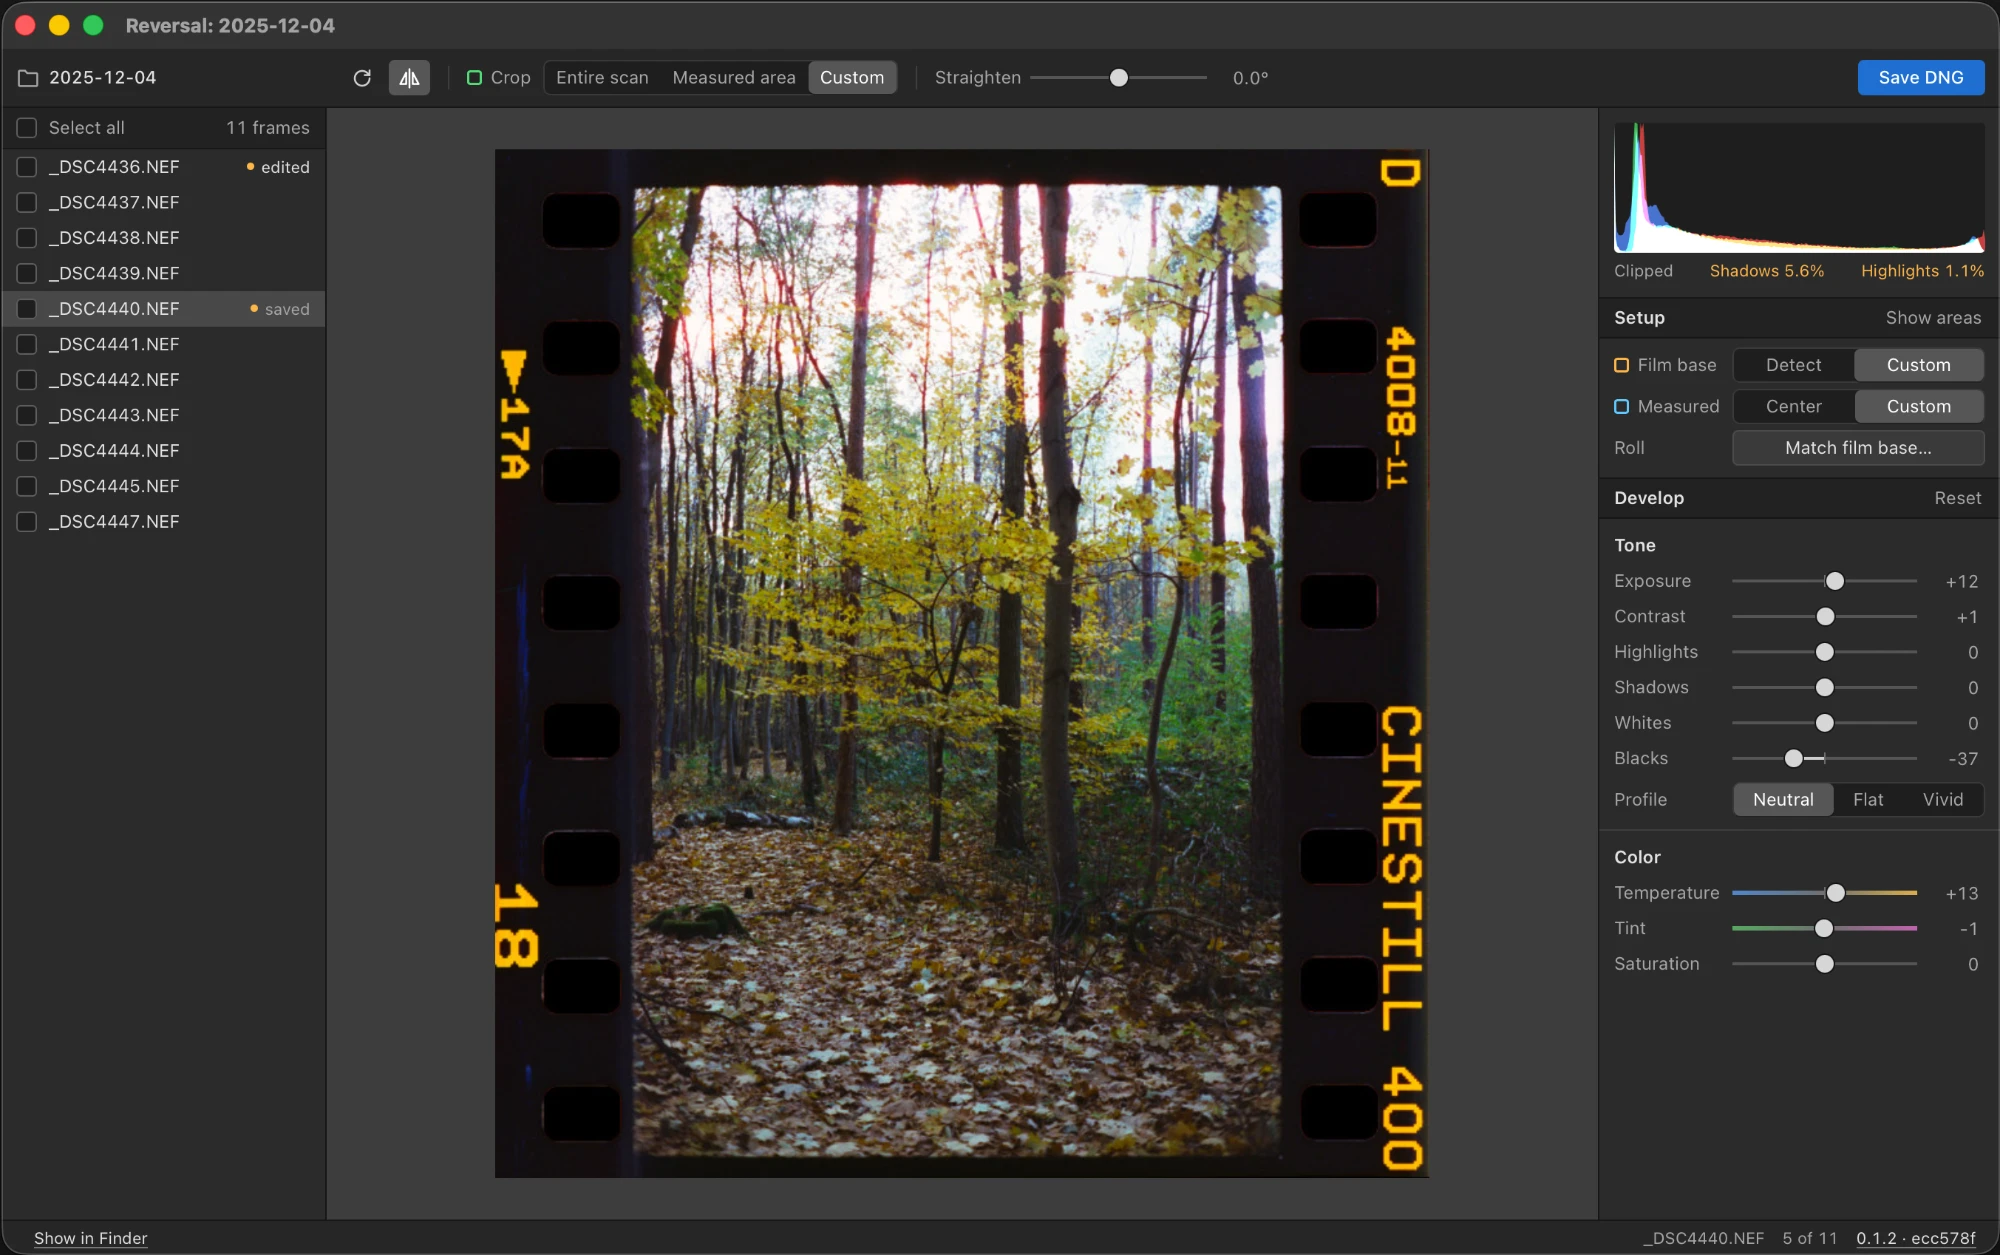
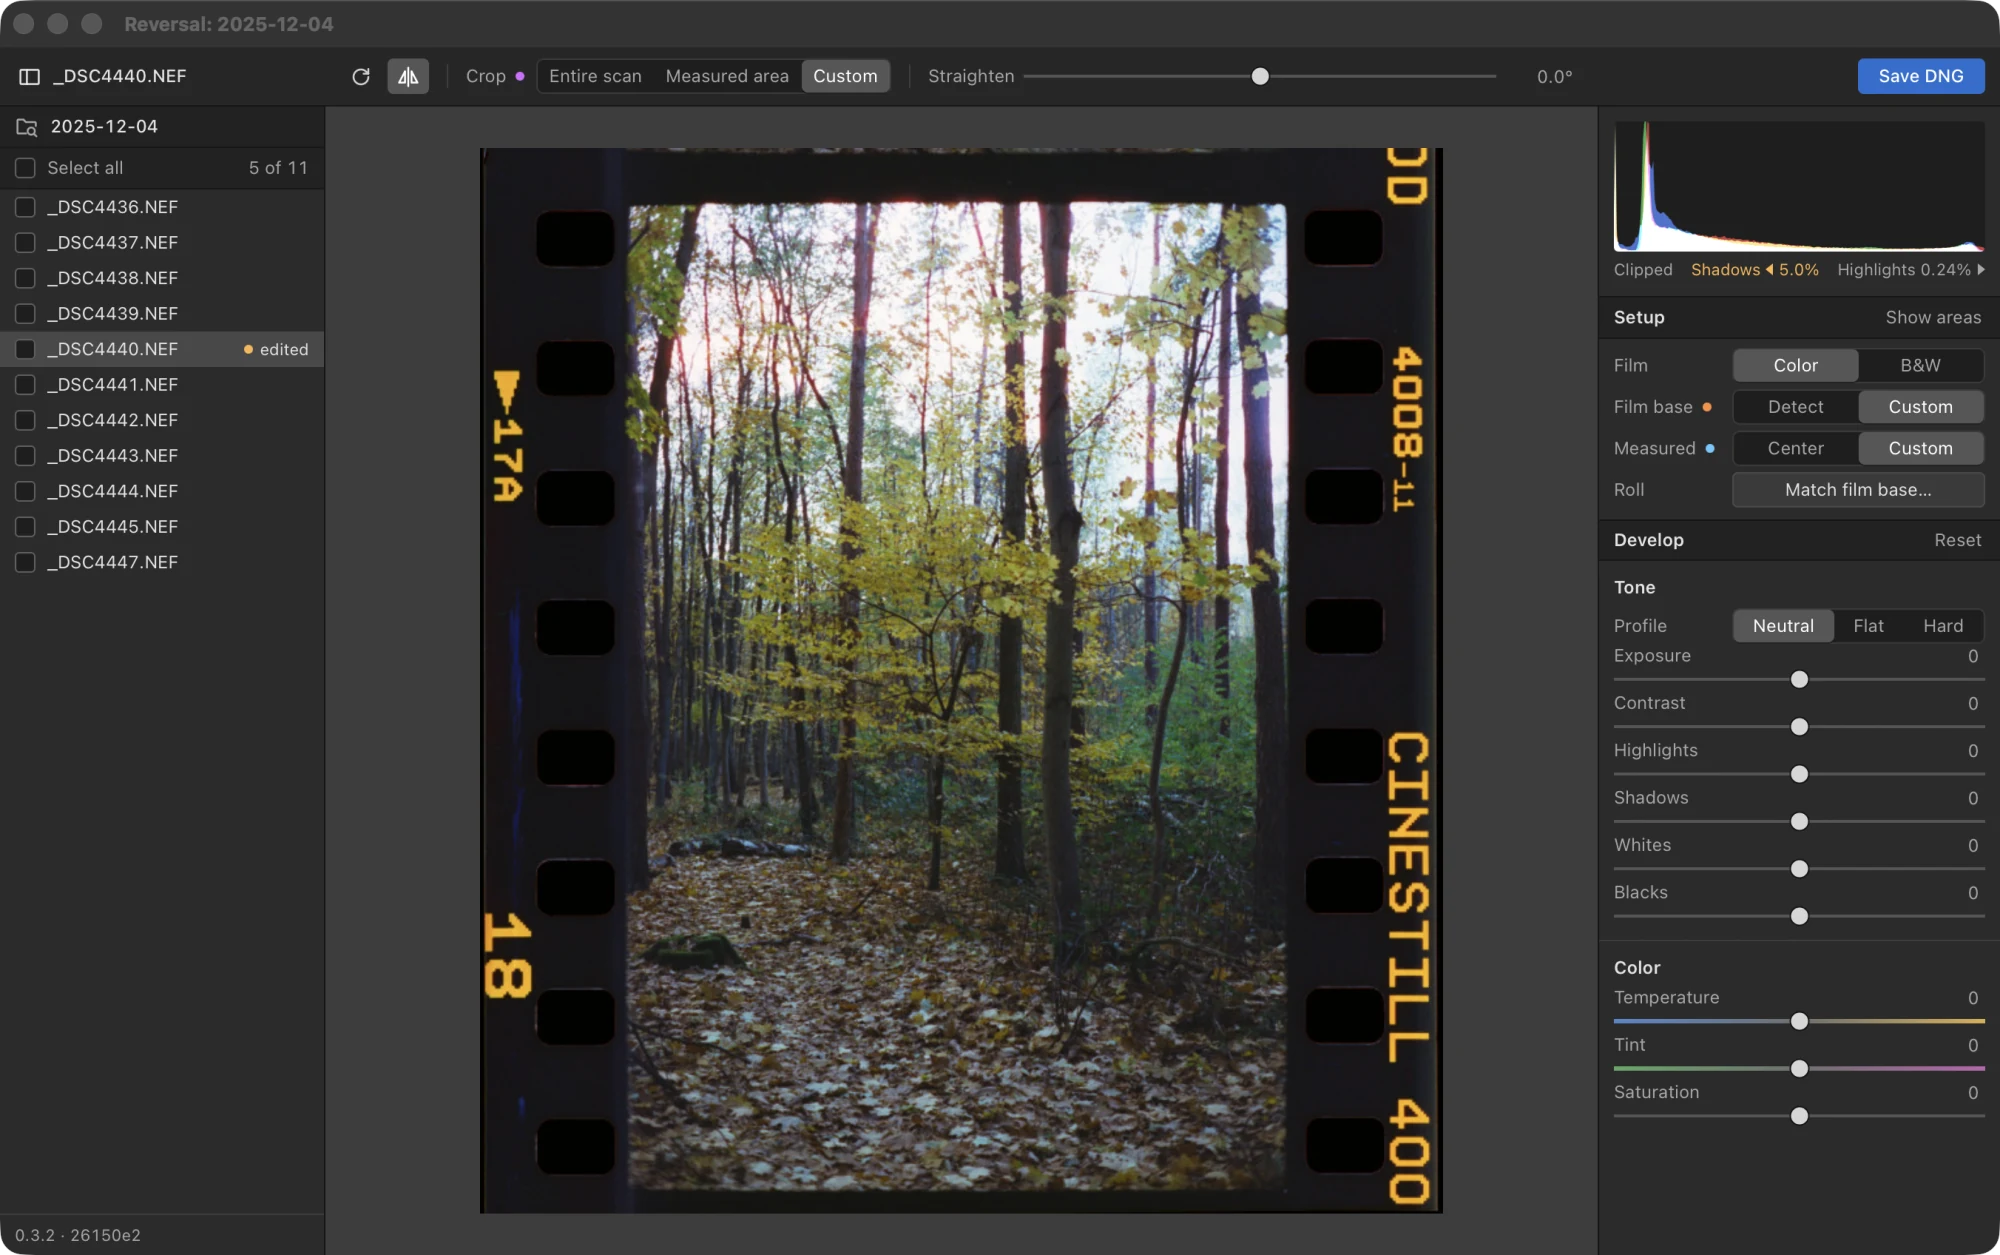
Refresh the README for the iOS prototype, with a current screenshot

diff --git a/README.md b/README.md
@@ -16,7 +16,7 @@ Open it in a RAW editor of your choice, on desktop or mobile, with no plugin or 
 
 Reversal is pre-alpha, so expect rough edges and changes. Submit feedback via [GitHub issues](https://github.com/janwiktor/reversal/issues).
 
-- **Platforms:** a Mac app, or self-hosted from source as a command line and local web UI.
+- **Platforms:** a Mac app, or self-hosted from source as a command line and local web UI. An app for iPhone and iPad is a prototype: it builds from source and isn't released.
 - **Film:** color and black and white negatives, detected per frame. Slide film is out of scope.
 - **Cameras:** limited testing, on files from a single DSLR (Nikon D5100 NEF) and one light source. Other cameras that LibRaw reads should open, but the color correction was fitted to this setup.
 - **Editors:** DNG rendering is benchmarked against Adobe Camera Raw only. Other tools may show the same file differently.
@@ -76,6 +76,24 @@ packaging/macos/build.sh
 
 This writes a disk image to `dist/`.
 
+### Building the iOS app
+
+The app for iPhone and iPad is a prototype, for iOS 17 or later. It needs Xcode on an Apple Silicon Mac, and Rust's iOS targets:
+
+```bash
+rustup target add aarch64-apple-ios aarch64-apple-ios-sim
+```
+
+```bash
+open packaging/ios/Reversal.xcodeproj
+```
+
+Run it in a simulator from Xcode. The first build downloads and builds LibRaw, so it takes a few minutes. To run it on a device, name your development team in `packaging/ios/Local.xcconfig`, which stays out of git:
+
+```
+DEVELOPMENT_TEAM = ABCDE12345
+```
+
 ## Use
 
 In the Mac app, choose a folder of scans. Without the app, open the web UI on a folder; it runs locally at http://127.0.0.1:8787.
@@ -86,13 +104,24 @@ In the Mac app, choose a folder of scans. Without the app, open the web UI on a 
 
 Both save DNGs to a `positives` folder inside the folder you chose.
 
-Each frame remembers its settings as you change them. Select several frames to save them together, each with its own settings; frames you haven't touched get the automatic conversion.
+Each frame remembers its settings as you change them. Select several frames to save them together, each with its own settings; frames you haven't touched get the automatic conversion. If a save is cut short, Reversal offers the frames it didn't reach when the folder is next open.
 
 The centered measuring area doesn't suit full film strips: for those, set a custom measured area and crop to it.
 
 ### Matching a roll
 
 Frames of one roll can share a film base. Choose Match film base… under Setup, review the film base measured on each frame, and select which frames to use; or pass `--roll` on the command line. This helps most when some scans don't show the unexposed edge of the film, as long as most of them do. Each frame keeps its own color analysis and Develop settings.
+
+### On iPhone and iPad
+
+The prototype shows the same controls, laid out for the screen: on a phone, the image with one panel of tools under it. Scans reach it four ways:
+
+- **Open a folder** in Files or on a card, and work on it in place.
+- **Copy in** files or a folder, as a roll kept in the app.
+- **Choose raw photos** from the photo library. Only raw photos come along, because a JPEG or HEIC of a negative has lost what the conversion measures.
+- **Open raw files** in Reversal from another app.
+
+After a save, the share button hands the DNGs to Photos, Files or another app. From iOS 26, a save goes on while the app is off screen, more slowly. The start screen lists the rolls in the app with their size, to rename, export or delete.
 
 ### Command line
 
@@ -127,7 +156,7 @@ cargo test
 cargo fmt && cargo clippy --all-targets -- -D warnings
 ```
 
-`crates/reversal-core` is the conversion engine, with no UI. `crates/reversal-cli` holds the command line and the web UI. See [AGENTS.md](AGENTS.md) for project conventions, and the [wiki](https://github.com/janwiktor/reversal/wiki) for how it works in detail and the evidence behind it. The wiki is generated from [`docs/`](docs), so changes go there.
+`crates/reversal-core` is the conversion engine, with no UI. `crates/reversal-cli` holds the command line and the web UI, and `crates/reversal-ios` wraps the engine as a library for the iOS app. The Mac and iOS apps are in `packaging/`. See [AGENTS.md](AGENTS.md) for project conventions, and the [wiki](https://github.com/janwiktor/reversal/wiki) for how it works in detail and the evidence behind it. The wiki is generated from [`docs/`](docs), so changes go there.
 
 ## License
 
@@ -135,4 +164,4 @@ Copyright © 2026 Jan Ambroziewicz. Reversal is under the [Mozilla Public Licens
 
 This product includes DNG technology under license by Adobe.
 
-RAW decoding uses [LibRaw](https://www.libraw.org/), under the CDDL 1.0, with its source available. It's a system library when you build from source, and built into the Mac app. Each release includes the source of LibRaw and of the Rust crates in the app. LibRaw is copyright © 2008-2025 LibRaw LLC.
+RAW decoding uses [LibRaw](https://www.libraw.org/), under the CDDL 1.0, with its source available. It's a system library when you build the command line from source, and built into the Mac and iOS apps. Each release includes the source of LibRaw and of the Rust crates in the app. LibRaw is copyright © 2008-2025 LibRaw LLC.
